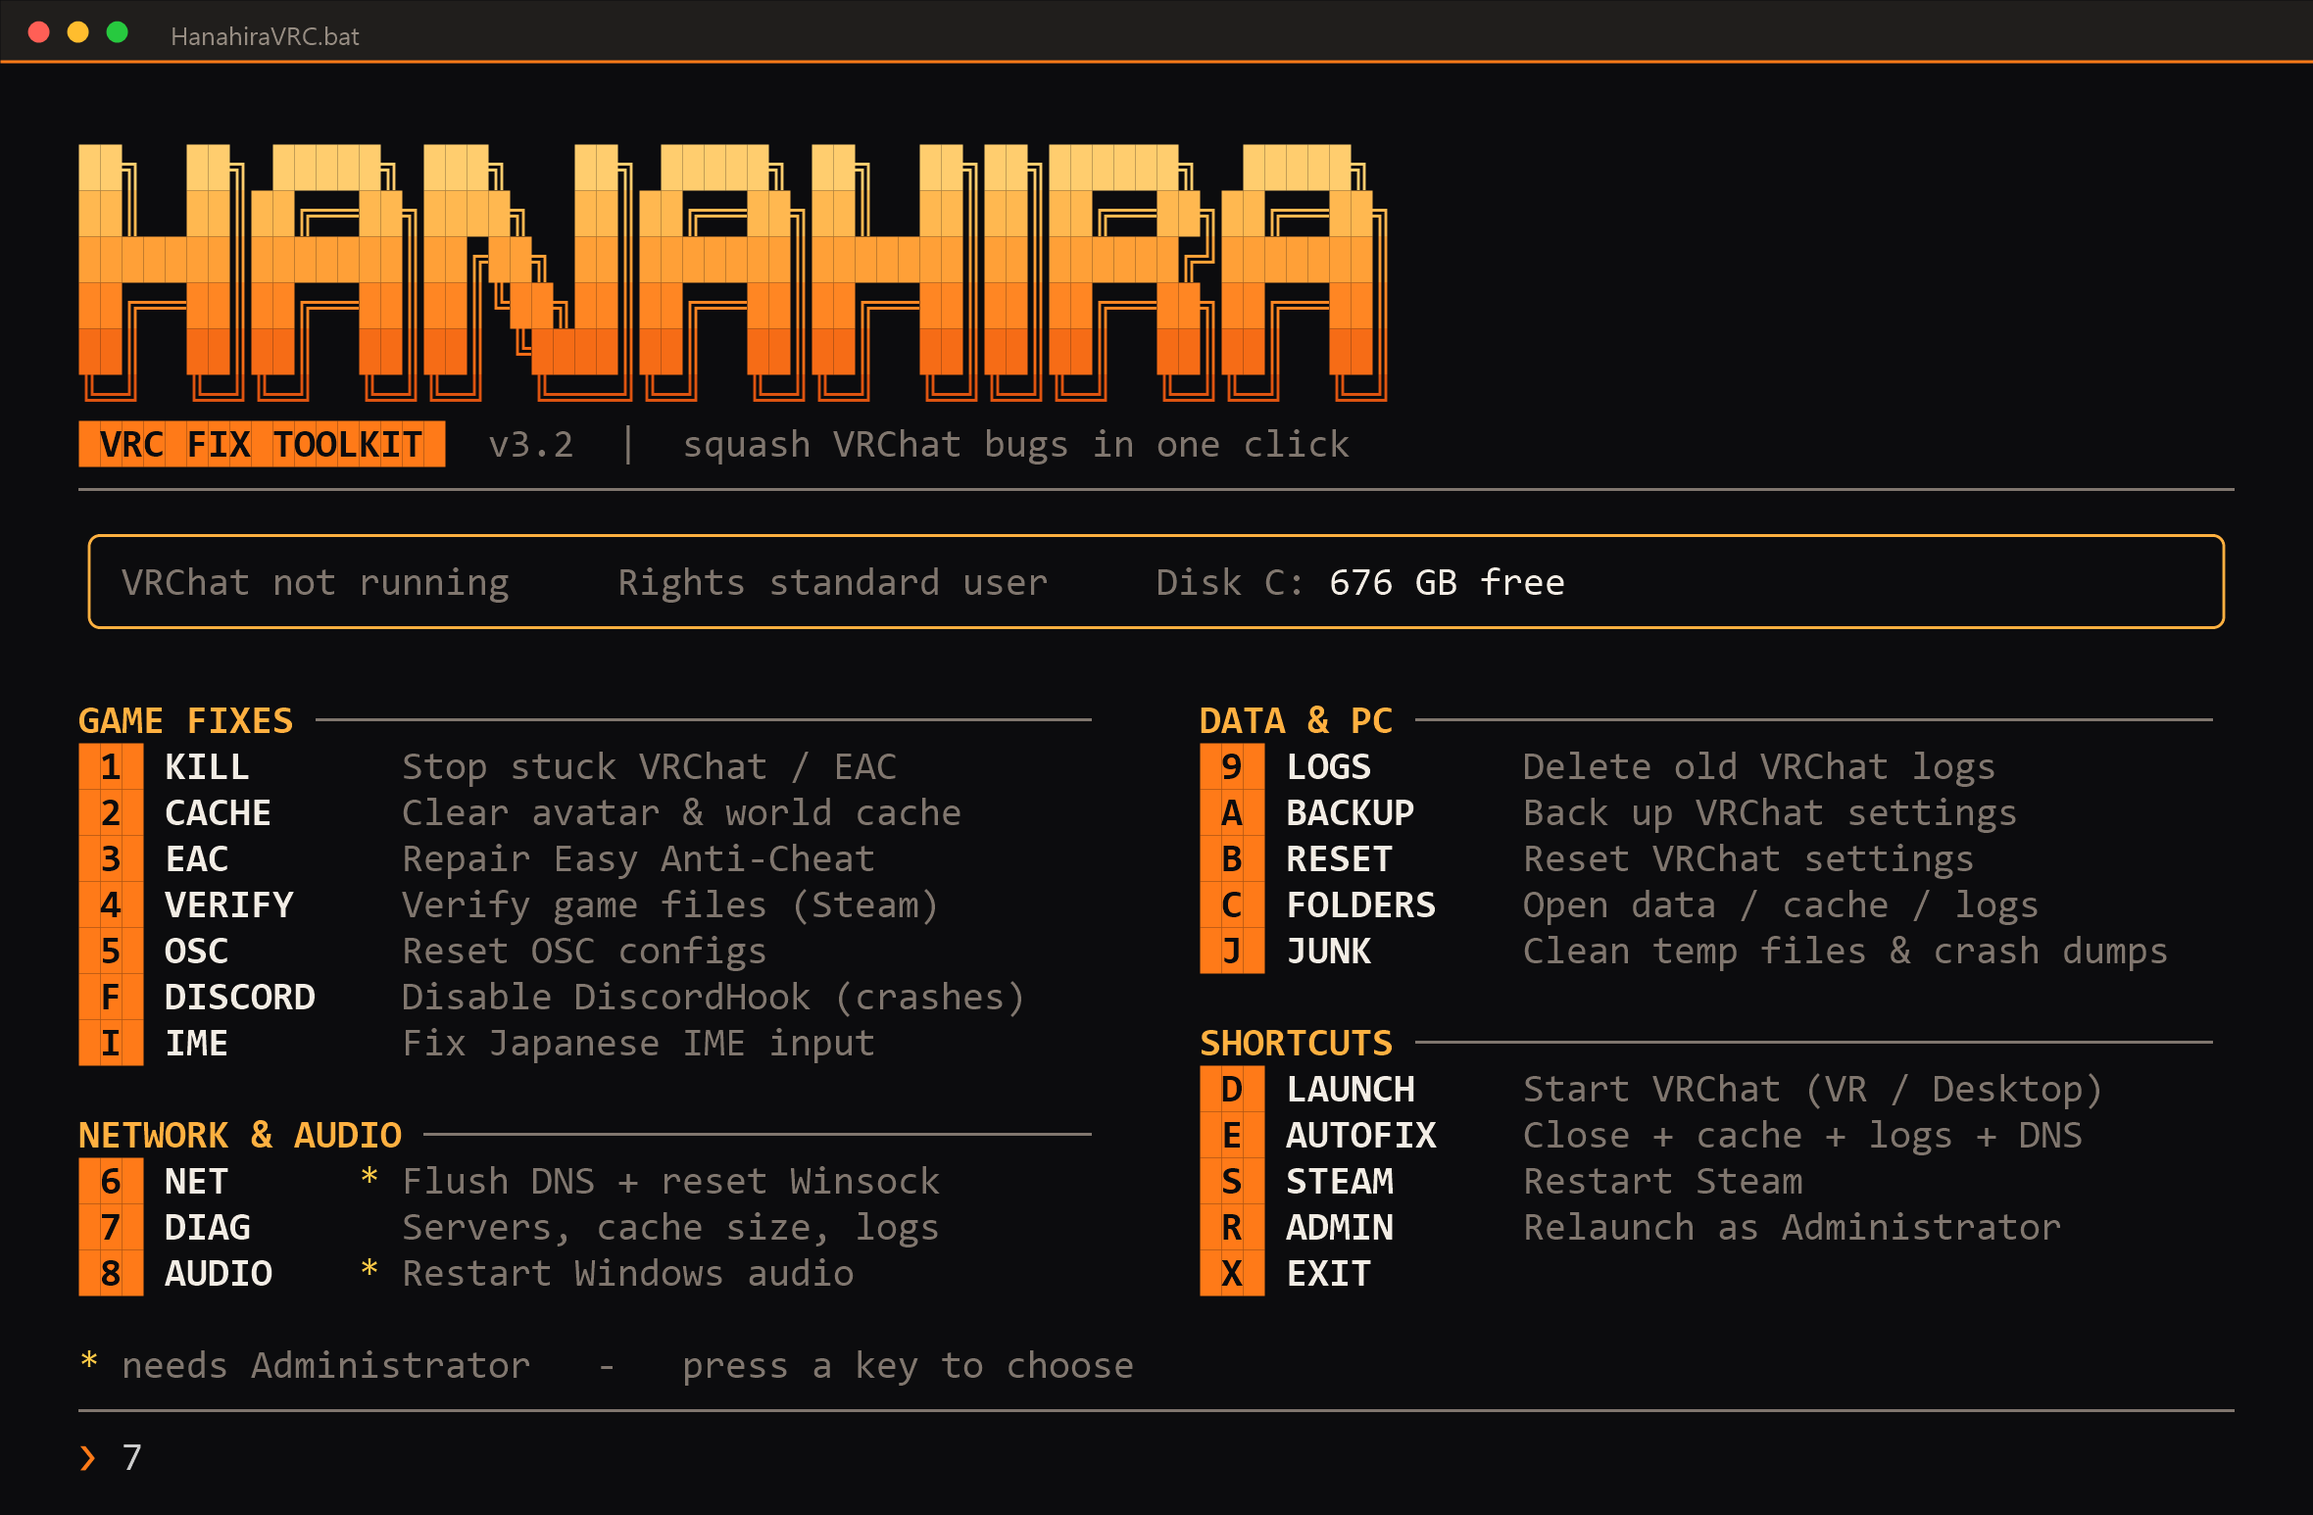
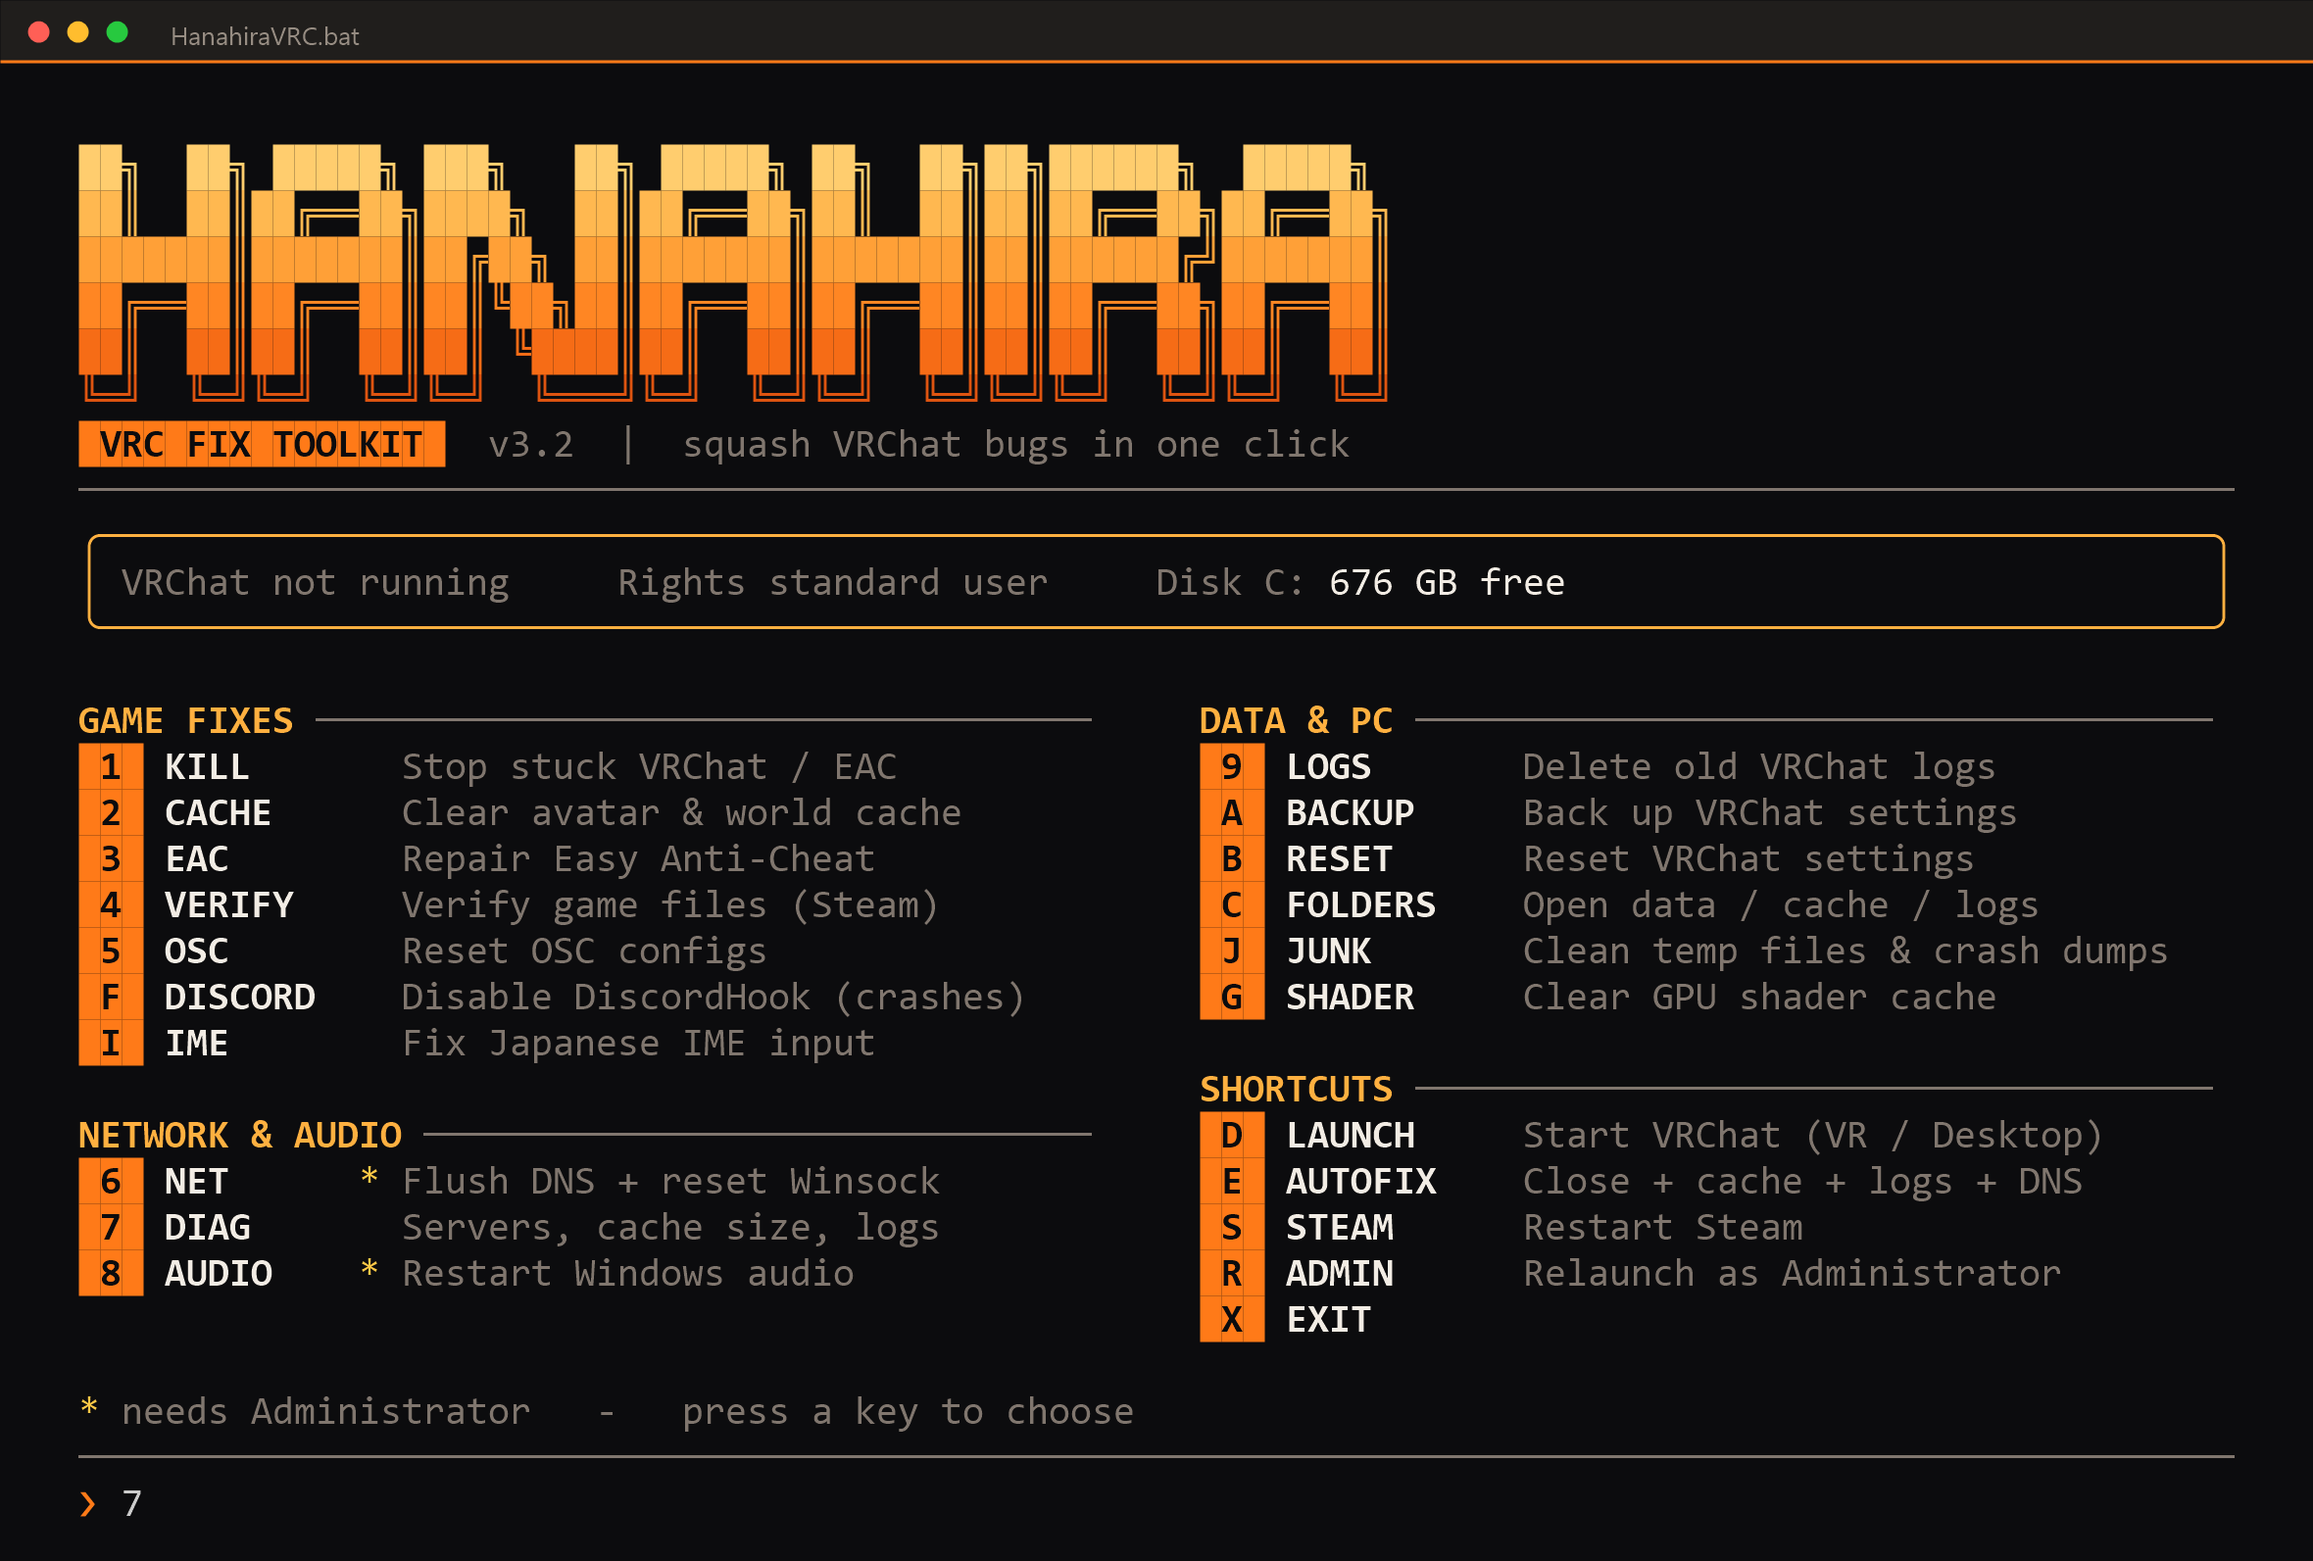
Add separate SHADER menu to clear NVIDIA/DirectX shader caches on demand

diff --git a/README.md b/README.md
@@ -126,6 +126,7 @@
 | 日本語入力ができない | **`I` IME** |
 | Discord を開いていると VRChat が落ちる・固まる | **`F` DISCORD** |
 | OSC アプリが反応しない | **`5` OSC** |
+| 画面が乱れる / GPU ドライバ更新後に不具合が出る | **`G` SHADER**（最後の手段） |
 | 設定がおかしい（画質・音量が戻らない） | **`A` BACKUP** → **`B` RESET** |
 | PC 全体が重い / 空き容量が少ない | **`J` JUNK** |
 | とにかくまとめて直したい | **`E` AUTOFIX** |
@@ -186,6 +187,7 @@
 | キー | 名前 | 内容 | メモ |
 |---|---|---|---|
 | `J` | **JUNK** | 一時ファイル、クラッシュダンプ、エラーレポート、サムネイルキャッシュを削除（**シェーダーキャッシュ（NVIDIA / DirectX）は、ゲームの再コンパイルを避けるため対象外**） | **先に一覧とサイズを表示し、確認してから** 削除。24 時間以内の一時ファイルは除外。ごみ箱を空にするかは別に確認します。Windows の一時フォルダも掃除するには管理者権限が必要 |
+| `G` | **SHADER** | NVIDIA / DirectX のシェーダーキャッシュを削除 | ⚠ **ゲームがシェーダーを再コンパイルするため、しばらくカクつき・読み込みが遅くなります。** グラフィックの乱れやドライバのトラブルがあるときだけ使ってください。実行前に確認します |
 
 </details>
 

diff --git a/README.en.md b/README.en.md
@@ -125,6 +125,7 @@ Items marked with `*` (**NET** and **AUDIO**) need Administrator rights.
 | Cannot type Japanese | **`I` IME** |
 | VRChat crashes or freezes while Discord is open | **`F` DISCORD** |
 | OSC apps stopped responding | **`5` OSC** |
+| Graphics glitches / problems after a GPU driver update | **`G` SHADER** (last resort) |
 | Settings look wrong (graphics / volume will not stick) | **`A` BACKUP** → **`B` RESET** |
 | Whole PC feels slow / low disk space | **`J` JUNK** |
 | Just fix everything at once | **`E` AUTOFIX** |
@@ -185,6 +186,7 @@ Items marked with `*` (**NET** and **AUDIO**) need Administrator rights.
 | Key | Name | What it does | Notes |
 |---|---|---|---|
 | `J` | **JUNK** | Removes temp files, crash dumps, error reports and thumbnail caches (**shader caches for NVIDIA / DirectX are left alone on purpose, so games do not have to recompile them**) | **Shows the list and sizes first and asks before deleting.** Temp files from the last 24 hours are skipped. Emptying the Recycle Bin is a separate question. Cleaning the Windows temp folder needs Administrator |
+| `G` | **SHADER** | Deletes NVIDIA / DirectX shader caches | ⚠ **Games must recompile shaders, so expect stutter and slower loading for a while.** Use only for graphics glitches or GPU driver problems. Asks before deleting |
 
 </details>
 
